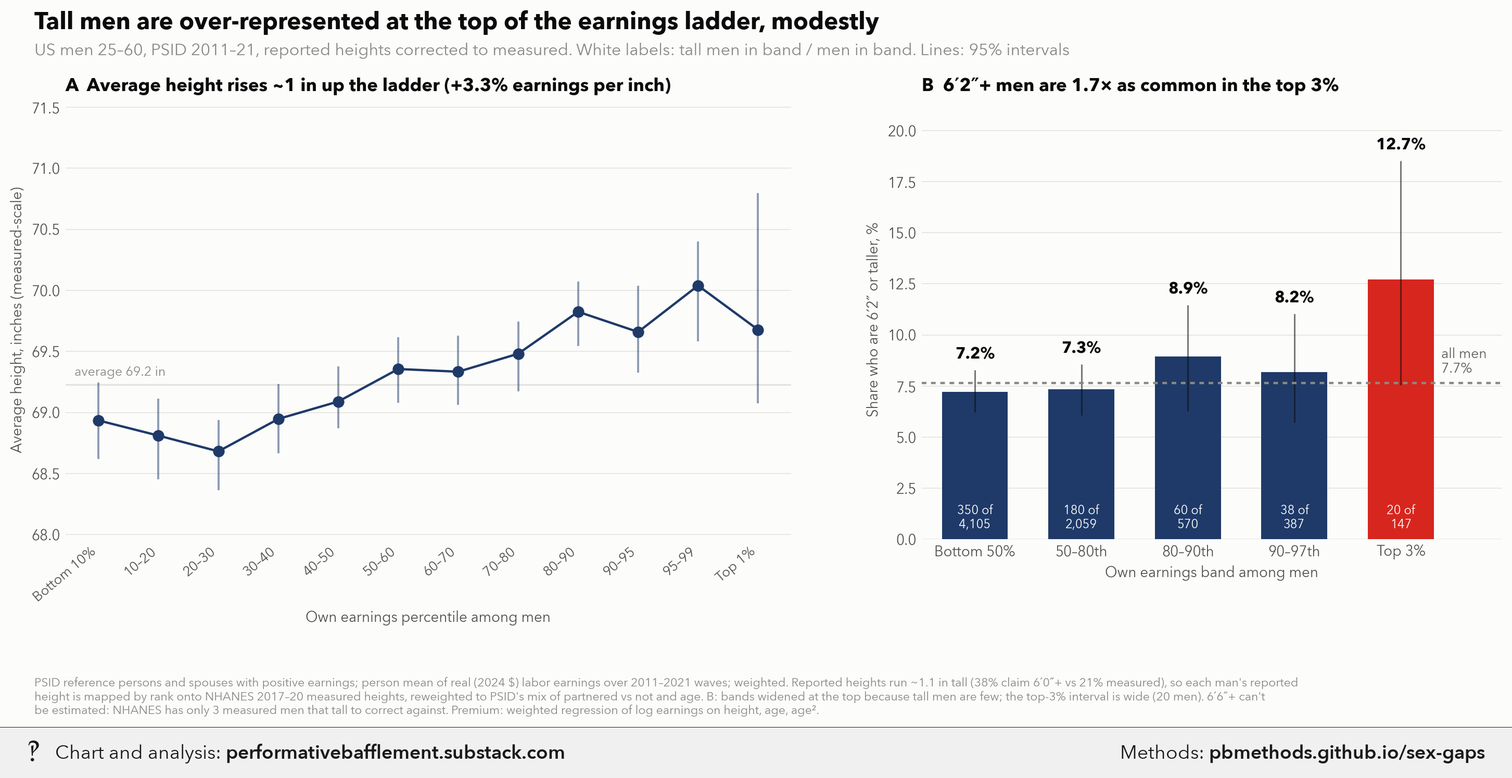
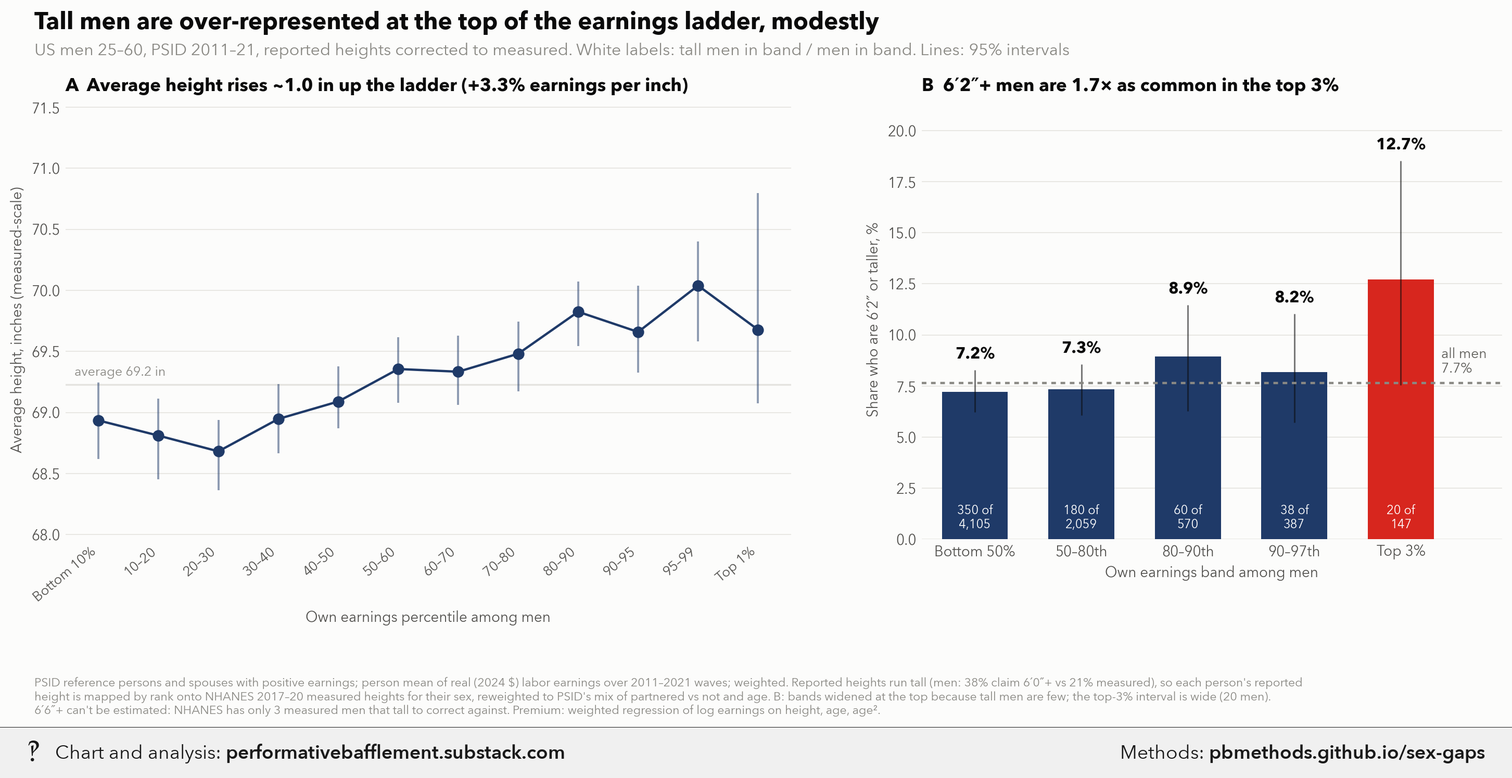
Update sex-gaps

Changed region(s): [[0.031, 0.8615, 0.8675, 0.9231], [0.1859, 0.0923, 0.4647, 0.1231]]

diff --git a/sex-gaps/index.html b/sex-gaps/index.html
@@ -179,7 +179,10 @@ Writes psid_height_earnings.csv next to this script; chart _wm copy to
 ~/Desktop/Recent Projects/Substack Notes/Gender differences/ (original in Unwatermarked graphs/Gender differences/).
 </code></pre>
 <h3><code>psid_height_tall_chart.py</code></h3>
-<pre><code class="language-text">Men's height up the earnings ladder (A) and how common 6'2&quot;+ men are in each earnings band (B). PSID 2011-2021.
+<pre><code class="language-text">Height up the earnings ladder (A) and how common tall people are in each earnings band (B), PSID 2011-2021.
+
+Two charts: men (tall = 6'2&quot;+, 7.7% of PSID men) and women (tall = 5'8&quot;+, 8.4% of PSID women, about the top decile
+of women's height and a similar incidence to the men's cutoff).
 
 Sample, earnings and height correction: identical to psid_height_earnings_chart.py (imported from it). PSID reference
 persons and spouses aged 25-60 with positive earnings, waves 2011-2021, one row per person (mean real 2024-dollar
@@ -189,13 +192,13 @@ mix of married/partnered vs not and age 25-39 vs 40-60.
 
 A: weighted mean corrected height for each own-sex earnings rung (deciles, 90-95, 95-99, top 1%), 95% person-level
 bootstrap intervals (500 draws).
-B: weighted share of men at 6'2&quot; or taller (corrected height &gt;= 73.5 in, i.e. rounds to 6'2&quot;+) within broader earnings
-bands -- bottom 50%, 50-80, 80-90, 90-97, top 3% -- because tall men are few: the top 3% band holds ~150 men, ~20 of
-them 6'2&quot;+. 95% intervals from 1,000 bootstrap draws within band. The dotted line is the share among all men in the
-sample (population incidence). 6'6&quot;+ is not shown: NHANES has only 3 measured men that tall at 25-60, too few to
+B: weighted share at or above the tall cutoff (corrected height &gt;= 73.5 in for men, 67.5 in for women, i.e. rounds
+to 6'2&quot;+ / 5'8&quot;+) within broader own-sex earnings bands -- bottom 50%, 50-80, 80-90, 90-97, top 3% -- because tall people are few: the top 3% band holds ~150 people per sex, ~20 of
+them tall. 95% intervals from 1,000 bootstrap draws within band. The dotted line is the share among all men in the
+sample of that sex (population incidence). 6'6&quot;+ is not shown: NHANES has only 3 measured men that tall at 25-60, too few to
 correct reported heights against.
 Run:  uv run --with matplotlib,pandas,pyarrow,fonttools,pillow python notebooks/psid_height_tall_chart.py
-Writes the chart's _wm copy to ~/Desktop/Recent Projects/Substack Notes/Gender differences/ (original in
+Writes psid_height_tall.png (men) and psid_height_tall_women.png; _wm copies to ~/Desktop/Recent Projects/Substack Notes/Gender differences/ (original in
 Unwatermarked graphs/Gender differences/).
 </code></pre>
 <h2>Results</h2>
@@ -2135,7 +2138,10 @@ if __name__ == &quot;__main__&quot;:
     main()
 </code></pre>
 <h3><code>psid_height_tall_chart.py</code></h3>
-<pre><code class="language-python">&quot;&quot;&quot;Men's height up the earnings ladder (A) and how common 6'2&quot;+ men are in each earnings band (B). PSID 2011-2021.
+<pre><code class="language-python">&quot;&quot;&quot;Height up the earnings ladder (A) and how common tall people are in each earnings band (B), PSID 2011-2021.
+
+Two charts: men (tall = 6'2&quot;+, 7.7% of PSID men) and women (tall = 5'8&quot;+, 8.4% of PSID women, about the top decile
+of women's height and a similar incidence to the men's cutoff).
 
 Sample, earnings and height correction: identical to psid_height_earnings_chart.py (imported from it). PSID reference
 persons and spouses aged 25-60 with positive earnings, waves 2011-2021, one row per person (mean real 2024-dollar
@@ -2145,13 +2151,13 @@ mix of married/partnered vs not and age 25-39 vs 40-60.
 
 A: weighted mean corrected height for each own-sex earnings rung (deciles, 90-95, 95-99, top 1%), 95% person-level
 bootstrap intervals (500 draws).
-B: weighted share of men at 6'2&quot; or taller (corrected height &gt;= 73.5 in, i.e. rounds to 6'2&quot;+) within broader earnings
-bands -- bottom 50%, 50-80, 80-90, 90-97, top 3% -- because tall men are few: the top 3% band holds ~150 men, ~20 of
-them 6'2&quot;+. 95% intervals from 1,000 bootstrap draws within band. The dotted line is the share among all men in the
-sample (population incidence). 6'6&quot;+ is not shown: NHANES has only 3 measured men that tall at 25-60, too few to
+B: weighted share at or above the tall cutoff (corrected height &gt;= 73.5 in for men, 67.5 in for women, i.e. rounds
+to 6'2&quot;+ / 5'8&quot;+) within broader own-sex earnings bands -- bottom 50%, 50-80, 80-90, 90-97, top 3% -- because tall people are few: the top 3% band holds ~150 people per sex, ~20 of
+them tall. 95% intervals from 1,000 bootstrap draws within band. The dotted line is the share among all men in the
+sample of that sex (population incidence). 6'6&quot;+ is not shown: NHANES has only 3 measured men that tall at 25-60, too few to
 correct reported heights against.
 Run:  uv run --with matplotlib,pandas,pyarrow,fonttools,pillow python notebooks/psid_height_tall_chart.py
-Writes the chart's _wm copy to ~/Desktop/Recent Projects/Substack Notes/Gender differences/ (original in
+Writes psid_height_tall.png (men) and psid_height_tall_women.png; _wm copies to ~/Desktop/Recent Projects/Substack Notes/Gender differences/ (original in
 Unwatermarked graphs/Gender differences/).
 &quot;&quot;&quot;
 import sys
@@ -2166,31 +2172,41 @@ from psid_height_earnings_chart import (RUNGS, persons, nhanes, correct, rung_me
 from sex_gaps_tails_chart import INK, MUTED, GRID, pb  # noqa: E402
 from sex_gaps_height_chart import save  # noqa: E402
 
-TALL = 73.5  # 6'2&quot; on the measured scale
 BANDS = [(0, 50, &quot;Bottom 50%&quot;), (50, 80, &quot;50–80th&quot;), (80, 90, &quot;80–90th&quot;), (90, 97, &quot;90–97th&quot;), (97, 100, &quot;Top 3%&quot;)]
-RNG = np.random.default_rng(5)
+CFG = {
+    &quot;Men&quot;: dict(tall=73.5, tall_lab=&quot;6′2″&quot;, noun=&quot;men&quot;, out=&quot;psid_height_tall.png&quot;,
+                title=&quot;Tall men are over-represented at the top of the earnings ladder, modestly&quot;,
+                extra=&quot;6′6″+ can't be estimated: NHANES has only 3 measured men that tall to correct against.&quot;),
+    &quot;Women&quot;: dict(tall=67.5, tall_lab=&quot;5′8″&quot;, noun=&quot;women&quot;, out=&quot;psid_height_tall_women.png&quot;,
+                  title=&quot;Tall women earn a bit more, but aren't over-represented at the very top&quot;,
+                  extra=&quot;5′8″+ is about the top decile of women's height, a similar incidence to men's 6′2″+.&quot;),
+}
 
 
-def main():
+def main(sex):
+    c = CFG[sex]
+    rng = np.random.default_rng(5)
     p = persons()
     p[&quot;hc&quot;] = correct(p, nhanes())
-    m = p[p.sex == &quot;Men&quot;].copy()
+    m = p[p.sex == sex].copy()
     m[&quot;pct&quot;] = wquant_rank(m.earn.to_numpy(), m.w.to_numpy()) * 100
     avg = np.average(m.hc, weights=m.w)
 
     mean, n = rung_means(m)
-    bs = np.array([rung_means(m.iloc[RNG.integers(0, len(m), len(m))])[0] for _ in range(500)])
+    bs = np.array([rung_means(m.iloc[rng.integers(0, len(m), len(m))])[0] for _ in range(500)])
     lo, hi = np.nanpercentile(bs, [2.5, 97.5], axis=0)
 
-    base = np.average(m.hc &gt;= TALL, weights=m.w)
+    base = np.average(m.hc &gt;= c[&quot;tall&quot;], weights=m.w)
     shares = []
     for a, b, lab in BANDS:
         g = m[(m.pct &gt;= a) &amp; ((m.pct &lt; b) if b &lt; 100 else (m.pct &gt;= a))]
-        t, w = (g.hc &gt;= TALL).to_numpy(), g.w.to_numpy()
-        draws = [np.average(t[i], weights=w[i]) for i in (RNG.integers(0, len(g), len(g)) for _ in range(1000))]
+        t, w = (g.hc &gt;= c[&quot;tall&quot;]).to_numpy(), g.w.to_numpy()
+        draws = [np.average(t[i], weights=w[i]) for i in (rng.integers(0, len(g), len(g)) for _ in range(1000))]
         shares.append((lab, np.average(t, weights=w), *np.percentile(draws, [2.5, 97.5]), int(t.sum()), len(g)))
         print(f&quot;{lab:11s} {shares[-1][1]:6.1%} [{shares[-1][2]:.1%}, {shares[-1][3]:.1%}]  {t.sum()} of {len(g)}&quot;)
-    print(f&quot;all men: {base:.1%} 6'2\&quot;+; r = {wspear(m.hc, m.earn, m.w.to_numpy()):.3f}, premium {premium(m):+.2%}/in&quot;)
+    prem = premium(m)
+    print(f&quot;all {c['noun']}: {base:.1%} {c['tall_lab']}+; r = {wspear(m.hc, m.earn, m.w.to_numpy()):.3f}, &quot;
+          f&quot;premium {prem:+.2%}/in&quot;)
 
     fig, (a1, a2) = plt.subplots(1, 2, figsize=(15, 6.6), gridspec_kw={&quot;width_ratios&quot;: [1.25, 1], &quot;wspace&quot;: .2})
     x = np.arange(len(RUNGS))
@@ -2202,11 +2218,12 @@ def main():
     labels[0] = &quot;Bottom 10%&quot;
     a1.set_xticks(x)
     a1.set_xticklabels(labels, rotation=40, ha=&quot;right&quot;, fontsize=9.5)
-    a1.set_xlabel(&quot;Own earnings percentile among men&quot;, fontsize=10)
+    a1.set_xlabel(f&quot;Own earnings percentile among {c['noun']}&quot;, fontsize=10)
     a1.set_ylabel(&quot;Average height, inches (measured-scale)&quot;, fontsize=10)
     a1.set_ylim(np.nanmin(lo) - .4, np.nanmin(lo) + 3.2)
     a1.grid(axis=&quot;y&quot;, color=GRID, lw=.6)
-    a1.set_title(f&quot;A  Average height rises ~1 in up the ladder ({premium(m):+.1%} earnings per inch)&quot;, loc=&quot;left&quot;,
+    rise = np.nanmean(mean[8:11]) - np.nanmean(mean[:3])
+    a1.set_title(f&quot;A  Average height rises ~{rise:.1f} in up the ladder ({prem:+.1%} earnings per inch)&quot;, loc=&quot;left&quot;,
                  fontsize=12.5, fontweight=&quot;bold&quot;, color=INK)
 
     xb = np.arange(len(BANDS))
@@ -2214,8 +2231,8 @@ def main():
     a2.bar(xb, vals, color=[pb.NAVY] * (len(BANDS) - 1) + [pb.RED], width=.62)
     a2.vlines(xb, [s[2] * 100 for s in shares], [s[3] * 100 for s in shares], color=INK, lw=1.1, alpha=.55)
     a2.axhline(base * 100, color=pb.GRAYS[0], lw=1.6, ls=(0, (2, 2)), zorder=3)
-    a2.text(len(BANDS) - .62, base * 100 + .35, f&quot;all men\n{base:.1%}&quot;, fontsize=9.5, color=pb.GRAYS[1], va=&quot;bottom&quot;,
-            ha=&quot;left&quot;, linespacing=1.1)
+    a2.text(len(BANDS) - .62, base * 100 + .35, f&quot;all {c['noun']}\n{base:.1%}&quot;, fontsize=9.5, color=pb.GRAYS[1],
+            va=&quot;bottom&quot;, ha=&quot;left&quot;, linespacing=1.1)
     a2.set_xlim(-.5, len(BANDS) - .05)
     for xi, s in zip(xb, shares):
         a2.text(xi, s[3] * 100 + .4, f&quot;{s[1]:.1%}&quot;, ha=&quot;center&quot;, va=&quot;bottom&quot;, fontsize=11, fontweight=&quot;bold&quot;,
@@ -2224,31 +2241,32 @@ def main():
                 linespacing=1.1)
     a2.set_xticks(xb)
     a2.set_xticklabels([s[0] for s in shares], fontsize=10)
-    a2.set_xlabel(&quot;Own earnings band among men&quot;, fontsize=10)
-    a2.set_ylabel(&quot;Share who are 6′2″ or taller, %&quot;, fontsize=10)
+    a2.set_xlabel(f&quot;Own earnings band among {c['noun']}&quot;, fontsize=10)
+    a2.set_ylabel(f&quot;Share who are {c['tall_lab']} or taller, %&quot;, fontsize=10)
     a2.set_ylim(0, max(s[3] for s in shares) * 100 + 3)
     a2.grid(axis=&quot;y&quot;, color=GRID, lw=.6)
     top = shares[-1]
-    a2.set_title(f&quot;B  6′2″+ men are {top[1] / base:.1f}× as common in the top 3%&quot;, loc=&quot;left&quot;, fontsize=12.5,
-                 fontweight=&quot;bold&quot;, color=INK)
+    a2.set_title(f&quot;B  {c['tall_lab']}+ {c['noun']} are {top[1] / base:.1f}× as common in the top 3%&quot;, loc=&quot;left&quot;,
+                 fontsize=12.5, fontweight=&quot;bold&quot;, color=INK)
 
-    fig.suptitle(&quot;Tall men are over-represented at the top of the earnings ladder, modestly&quot;,
-                 x=.04, ha=&quot;left&quot;, y=.99, fontsize=16.5, fontweight=&quot;bold&quot;, color=INK)
-    fig.text(.04, .925, (&quot;US men 25–60, PSID 2011–21, reported heights corrected to measured. White labels: tall men in &quot;
-                         &quot;band / men in band. Lines: 95% intervals&quot;), ha=&quot;left&quot;, fontsize=11.5, color=MUTED)
+    fig.suptitle(c[&quot;title&quot;], x=.04, ha=&quot;left&quot;, y=.99, fontsize=16.5, fontweight=&quot;bold&quot;, color=INK)
+    fig.text(.04, .925, (f&quot;US {c['noun']} 25–60, PSID 2011–21, reported heights corrected to measured. White labels: &quot;
+                         f&quot;tall {c['noun']} in band / {c['noun']} in band. Lines: 95% intervals&quot;),
+             ha=&quot;left&quot;, fontsize=11.5, color=MUTED)
     fig.text(.04, .02, (
         &quot;PSID reference persons and spouses with positive earnings; person mean of real (2024 $) labor earnings over &quot;
-        &quot;2011–2021 waves; weighted. Reported heights run ~1.1 in tall (38% claim 6′0″+ vs 21% measured), so each man's &quot;
-        &quot;reported\nheight is mapped by rank onto NHANES 2017–20 measured heights, reweighted to PSID's mix of partnered vs &quot;
-        &quot;not and age. B: bands widened at the top because tall men are few; the top-3% interval is wide (20 men). &quot;
-        &quot;6′6″+ can't\nbe estimated: NHANES has only 3 measured men that tall to correct against. Premium: weighted &quot;
-        &quot;regression of log earnings on height, age, age².&quot;),
+        &quot;2011–2021 waves; weighted. Reported heights run tall (men: 38% claim 6′0″+ vs 21% measured), so each person's &quot;
+        &quot;reported\nheight is mapped by rank onto NHANES 2017–20 measured heights for their sex, reweighted to PSID's mix &quot;
+        f&quot;of partnered vs not and age. B: bands widened at the top because tall {c['noun']} are few; the top-3% &quot;
+        f&quot;interval is wide ({top[4]} {c['noun']}).\n{c['extra']} Premium: weighted regression of log earnings on height, &quot;
+        &quot;age, age².&quot;),
         fontsize=8.3, color=MUTED, ha=&quot;left&quot;, va=&quot;top&quot;)
     fig.subplots_adjust(left=.06, right=.98, top=.86, bottom=.22)
-    save(fig, &quot;psid_height_tall.png&quot;)
+    save(fig, c[&quot;out&quot;])
 
 
 if __name__ == &quot;__main__&quot;:
-    main()
+    for sex in (sys.argv[1:] or [&quot;Men&quot;, &quot;Women&quot;]):
+        main(sex)
 </code></pre>
 </main></body></html>

diff --git a/sex-gaps/methods.md b/sex-gaps/methods.md
@@ -190,7 +190,10 @@ Writes psid_height_earnings.csv next to this script; chart _wm copy to
 ### `psid_height_tall_chart.py`
 
 ```text
-Men's height up the earnings ladder (A) and how common 6'2"+ men are in each earnings band (B). PSID 2011-2021.
+Height up the earnings ladder (A) and how common tall people are in each earnings band (B), PSID 2011-2021.
+
+Two charts: men (tall = 6'2"+, 7.7% of PSID men) and women (tall = 5'8"+, 8.4% of PSID women, about the top decile
+of women's height and a similar incidence to the men's cutoff).
 
 Sample, earnings and height correction: identical to psid_height_earnings_chart.py (imported from it). PSID reference
 persons and spouses aged 25-60 with positive earnings, waves 2011-2021, one row per person (mean real 2024-dollar
@@ -200,13 +203,13 @@ mix of married/partnered vs not and age 25-39 vs 40-60.
 
 A: weighted mean corrected height for each own-sex earnings rung (deciles, 90-95, 95-99, top 1%), 95% person-level
 bootstrap intervals (500 draws).
-B: weighted share of men at 6'2" or taller (corrected height >= 73.5 in, i.e. rounds to 6'2"+) within broader earnings
-bands -- bottom 50%, 50-80, 80-90, 90-97, top 3% -- because tall men are few: the top 3% band holds ~150 men, ~20 of
-them 6'2"+. 95% intervals from 1,000 bootstrap draws within band. The dotted line is the share among all men in the
-sample (population incidence). 6'6"+ is not shown: NHANES has only 3 measured men that tall at 25-60, too few to
+B: weighted share at or above the tall cutoff (corrected height >= 73.5 in for men, 67.5 in for women, i.e. rounds
+to 6'2"+ / 5'8"+) within broader own-sex earnings bands -- bottom 50%, 50-80, 80-90, 90-97, top 3% -- because tall people are few: the top 3% band holds ~150 people per sex, ~20 of
+them tall. 95% intervals from 1,000 bootstrap draws within band. The dotted line is the share among all men in the
+sample of that sex (population incidence). 6'6"+ is not shown: NHANES has only 3 measured men that tall at 25-60, too few to
 correct reported heights against.
 Run:  uv run --with matplotlib,pandas,pyarrow,fonttools,pillow python notebooks/psid_height_tall_chart.py
-Writes the chart's _wm copy to ~/Desktop/Recent Projects/Substack Notes/Gender differences/ (original in
+Writes psid_height_tall.png (men) and psid_height_tall_women.png; _wm copies to ~/Desktop/Recent Projects/Substack Notes/Gender differences/ (original in
 Unwatermarked graphs/Gender differences/).
 ```
 
@@ -1410,7 +1413,10 @@ if __name__ == "__main__":
 ### `psid_height_tall_chart.py`
 
 ```python
-"""Men's height up the earnings ladder (A) and how common 6'2"+ men are in each earnings band (B). PSID 2011-2021.
+"""Height up the earnings ladder (A) and how common tall people are in each earnings band (B), PSID 2011-2021.
+
+Two charts: men (tall = 6'2"+, 7.7% of PSID men) and women (tall = 5'8"+, 8.4% of PSID women, about the top decile
+of women's height and a similar incidence to the men's cutoff).
 
 Sample, earnings and height correction: identical to psid_height_earnings_chart.py (imported from it). PSID reference
 persons and spouses aged 25-60 with positive earnings, waves 2011-2021, one row per person (mean real 2024-dollar
@@ -1420,13 +1426,13 @@ mix of married/partnered vs not and age 25-39 vs 40-60.
 
 A: weighted mean corrected height for each own-sex earnings rung (deciles, 90-95, 95-99, top 1%), 95% person-level
 bootstrap intervals (500 draws).
-B: weighted share of men at 6'2" or taller (corrected height >= 73.5 in, i.e. rounds to 6'2"+) within broader earnings
-bands -- bottom 50%, 50-80, 80-90, 90-97, top 3% -- because tall men are few: the top 3% band holds ~150 men, ~20 of
-them 6'2"+. 95% intervals from 1,000 bootstrap draws within band. The dotted line is the share among all men in the
-sample (population incidence). 6'6"+ is not shown: NHANES has only 3 measured men that tall at 25-60, too few to
+B: weighted share at or above the tall cutoff (corrected height >= 73.5 in for men, 67.5 in for women, i.e. rounds
+to 6'2"+ / 5'8"+) within broader own-sex earnings bands -- bottom 50%, 50-80, 80-90, 90-97, top 3% -- because tall people are few: the top 3% band holds ~150 people per sex, ~20 of
+them tall. 95% intervals from 1,000 bootstrap draws within band. The dotted line is the share among all men in the
+sample of that sex (population incidence). 6'6"+ is not shown: NHANES has only 3 measured men that tall at 25-60, too few to
 correct reported heights against.
 Run:  uv run --with matplotlib,pandas,pyarrow,fonttools,pillow python notebooks/psid_height_tall_chart.py
-Writes the chart's _wm copy to ~/Desktop/Recent Projects/Substack Notes/Gender differences/ (original in
+Writes psid_height_tall.png (men) and psid_height_tall_women.png; _wm copies to ~/Desktop/Recent Projects/Substack Notes/Gender differences/ (original in
 Unwatermarked graphs/Gender differences/).
 """
 import sys
@@ -1441,31 +1447,41 @@ from psid_height_earnings_chart import (RUNGS, persons, nhanes, correct, rung_me
 from sex_gaps_tails_chart import INK, MUTED, GRID, pb  # noqa: E402
 from sex_gaps_height_chart import save  # noqa: E402
 
-TALL = 73.5  # 6'2" on the measured scale
 BANDS = [(0, 50, "Bottom 50%"), (50, 80, "50–80th"), (80, 90, "80–90th"), (90, 97, "90–97th"), (97, 100, "Top 3%")]
-RNG = np.random.default_rng(5)
+CFG = {
+    "Men": dict(tall=73.5, tall_lab="6′2″", noun="men", out="psid_height_tall.png",
+                title="Tall men are over-represented at the top of the earnings ladder, modestly",
+                extra="6′6″+ can't be estimated: NHANES has only 3 measured men that tall to correct against."),
+    "Women": dict(tall=67.5, tall_lab="5′8″", noun="women", out="psid_height_tall_women.png",
+                  title="Tall women earn a bit more, but aren't over-represented at the very top",
+                  extra="5′8″+ is about the top decile of women's height, a similar incidence to men's 6′2″+."),
+}
 
 
-def main():
+def main(sex):
+    c = CFG[sex]
+    rng = np.random.default_rng(5)
     p = persons()
     p["hc"] = correct(p, nhanes())
-    m = p[p.sex == "Men"].copy()
+    m = p[p.sex == sex].copy()
     m["pct"] = wquant_rank(m.earn.to_numpy(), m.w.to_numpy()) * 100
     avg = np.average(m.hc, weights=m.w)
 
     mean, n = rung_means(m)
-    bs = np.array([rung_means(m.iloc[RNG.integers(0, len(m), len(m))])[0] for _ in range(500)])
+    bs = np.array([rung_means(m.iloc[rng.integers(0, len(m), len(m))])[0] for _ in range(500)])
     lo, hi = np.nanpercentile(bs, [2.5, 97.5], axis=0)
 
-    base = np.average(m.hc >= TALL, weights=m.w)
+    base = np.average(m.hc >= c["tall"], weights=m.w)
     shares = []
     for a, b, lab in BANDS:
         g = m[(m.pct >= a) & ((m.pct < b) if b < 100 else (m.pct >= a))]
-        t, w = (g.hc >= TALL).to_numpy(), g.w.to_numpy()
-        draws = [np.average(t[i], weights=w[i]) for i in (RNG.integers(0, len(g), len(g)) for _ in range(1000))]
+        t, w = (g.hc >= c["tall"]).to_numpy(), g.w.to_numpy()
+        draws = [np.average(t[i], weights=w[i]) for i in (rng.integers(0, len(g), len(g)) for _ in range(1000))]
         shares.append((lab, np.average(t, weights=w), *np.percentile(draws, [2.5, 97.5]), int(t.sum()), len(g)))
         print(f"{lab:11s} {shares[-1][1]:6.1%} [{shares[-1][2]:.1%}, {shares[-1][3]:.1%}]  {t.sum()} of {len(g)}")
-    print(f"all men: {base:.1%} 6'2\"+; r = {wspear(m.hc, m.earn, m.w.to_numpy()):.3f}, premium {premium(m):+.2%}/in")
+    prem = premium(m)
+    print(f"all {c['noun']}: {base:.1%} {c['tall_lab']}+; r = {wspear(m.hc, m.earn, m.w.to_numpy()):.3f}, "
+          f"premium {prem:+.2%}/in")
 
     fig, (a1, a2) = plt.subplots(1, 2, figsize=(15, 6.6), gridspec_kw={"width_ratios": [1.25, 1], "wspace": .2})
     x = np.arange(len(RUNGS))
@@ -1477,11 +1493,12 @@ def main():
     labels[0] = "Bottom 10%"
     a1.set_xticks(x)
     a1.set_xticklabels(labels, rotation=40, ha="right", fontsize=9.5)
-    a1.set_xlabel("Own earnings percentile among men", fontsize=10)
+    a1.set_xlabel(f"Own earnings percentile among {c['noun']}", fontsize=10)
     a1.set_ylabel("Average height, inches (measured-scale)", fontsize=10)
     a1.set_ylim(np.nanmin(lo) - .4, np.nanmin(lo) + 3.2)
     a1.grid(axis="y", color=GRID, lw=.6)
-    a1.set_title(f"A  Average height rises ~1 in up the ladder ({premium(m):+.1%} earnings per inch)", loc="left",
+    rise = np.nanmean(mean[8:11]) - np.nanmean(mean[:3])
+    a1.set_title(f"A  Average height rises ~{rise:.1f} in up the ladder ({prem:+.1%} earnings per inch)", loc="left",
                  fontsize=12.5, fontweight="bold", color=INK)
 
     xb = np.arange(len(BANDS))
@@ -1489,8 +1506,8 @@ def main():
     a2.bar(xb, vals, color=[pb.NAVY] * (len(BANDS) - 1) + [pb.RED], width=.62)
     a2.vlines(xb, [s[2] * 100 for s in shares], [s[3] * 100 for s in shares], color=INK, lw=1.1, alpha=.55)
     a2.axhline(base * 100, color=pb.GRAYS[0], lw=1.6, ls=(0, (2, 2)), zorder=3)
-    a2.text(len(BANDS) - .62, base * 100 + .35, f"all men\n{base:.1%}", fontsize=9.5, color=pb.GRAYS[1], va="bottom",
-            ha="left", linespacing=1.1)
+    a2.text(len(BANDS) - .62, base * 100 + .35, f"all {c['noun']}\n{base:.1%}", fontsize=9.5, color=pb.GRAYS[1],
+            va="bottom", ha="left", linespacing=1.1)
     a2.set_xlim(-.5, len(BANDS) - .05)
     for xi, s in zip(xb, shares):
         a2.text(xi, s[3] * 100 + .4, f"{s[1]:.1%}", ha="center", va="bottom", fontsize=11, fontweight="bold",
@@ -1499,30 +1516,31 @@ def main():
                 linespacing=1.1)
     a2.set_xticks(xb)
     a2.set_xticklabels([s[0] for s in shares], fontsize=10)
-    a2.set_xlabel("Own earnings band among men", fontsize=10)
-    a2.set_ylabel("Share who are 6′2″ or taller, %", fontsize=10)
+    a2.set_xlabel(f"Own earnings band among {c['noun']}", fontsize=10)
+    a2.set_ylabel(f"Share who are {c['tall_lab']} or taller, %", fontsize=10)
     a2.set_ylim(0, max(s[3] for s in shares) * 100 + 3)
     a2.grid(axis="y", color=GRID, lw=.6)
     top = shares[-1]
-    a2.set_title(f"B  6′2″+ men are {top[1] / base:.1f}× as common in the top 3%", loc="left", fontsize=12.5,
-                 fontweight="bold", color=INK)
+    a2.set_title(f"B  {c['tall_lab']}+ {c['noun']} are {top[1] / base:.1f}× as common in the top 3%", loc="left",
+                 fontsize=12.5, fontweight="bold", color=INK)
 
-    fig.suptitle("Tall men are over-represented at the top of the earnings ladder, modestly",
-                 x=.04, ha="left", y=.99, fontsize=16.5, fontweight="bold", color=INK)
-    fig.text(.04, .925, ("US men 25–60, PSID 2011–21, reported heights corrected to measured. White labels: tall men in "
-                         "band / men in band. Lines: 95% intervals"), ha="left", fontsize=11.5, color=MUTED)
+    fig.suptitle(c["title"], x=.04, ha="left", y=.99, fontsize=16.5, fontweight="bold", color=INK)
+    fig.text(.04, .925, (f"US {c['noun']} 25–60, PSID 2011–21, reported heights corrected to measured. White labels: "
+                         f"tall {c['noun']} in band / {c['noun']} in band. Lines: 95% intervals"),
+             ha="left", fontsize=11.5, color=MUTED)
     fig.text(.04, .02, (
         "PSID reference persons and spouses with positive earnings; person mean of real (2024 $) labor earnings over "
-        "2011–2021 waves; weighted. Reported heights run ~1.1 in tall (38% claim 6′0″+ vs 21% measured), so each man's "
-        "reported\nheight is mapped by rank onto NHANES 2017–20 measured heights, reweighted to PSID's mix of partnered vs "
-        "not and age. B: bands widened at the top because tall men are few; the top-3% interval is wide (20 men). "
-        "6′6″+ can't\nbe estimated: NHANES has only 3 measured men that tall to correct against. Premium: weighted "
-        "regression of log earnings on height, age, age²."),
+        "2011–2021 waves; weighted. Reported heights run tall (men: 38% claim 6′0″+ vs 21% measured), so each person's "
+        "reported\nheight is mapped by rank onto NHANES 2017–20 measured heights for their sex, reweighted to PSID's mix "
+        f"of partnered vs not and age. B: bands widened at the top because tall {c['noun']} are few; the top-3% "
+        f"interval is wide ({top[4]} {c['noun']}).\n{c['extra']} Premium: weighted regression of log earnings on height, "
+        "age, age²."),
         fontsize=8.3, color=MUTED, ha="left", va="top")
     fig.subplots_adjust(left=.06, right=.98, top=.86, bottom=.22)
-    save(fig, "psid_height_tall.png")
+    save(fig, c["out"])
 
 
 if __name__ == "__main__":
-    main()
+    for sex in (sys.argv[1:] or ["Men", "Women"]):
+        main(sex)
 ```
